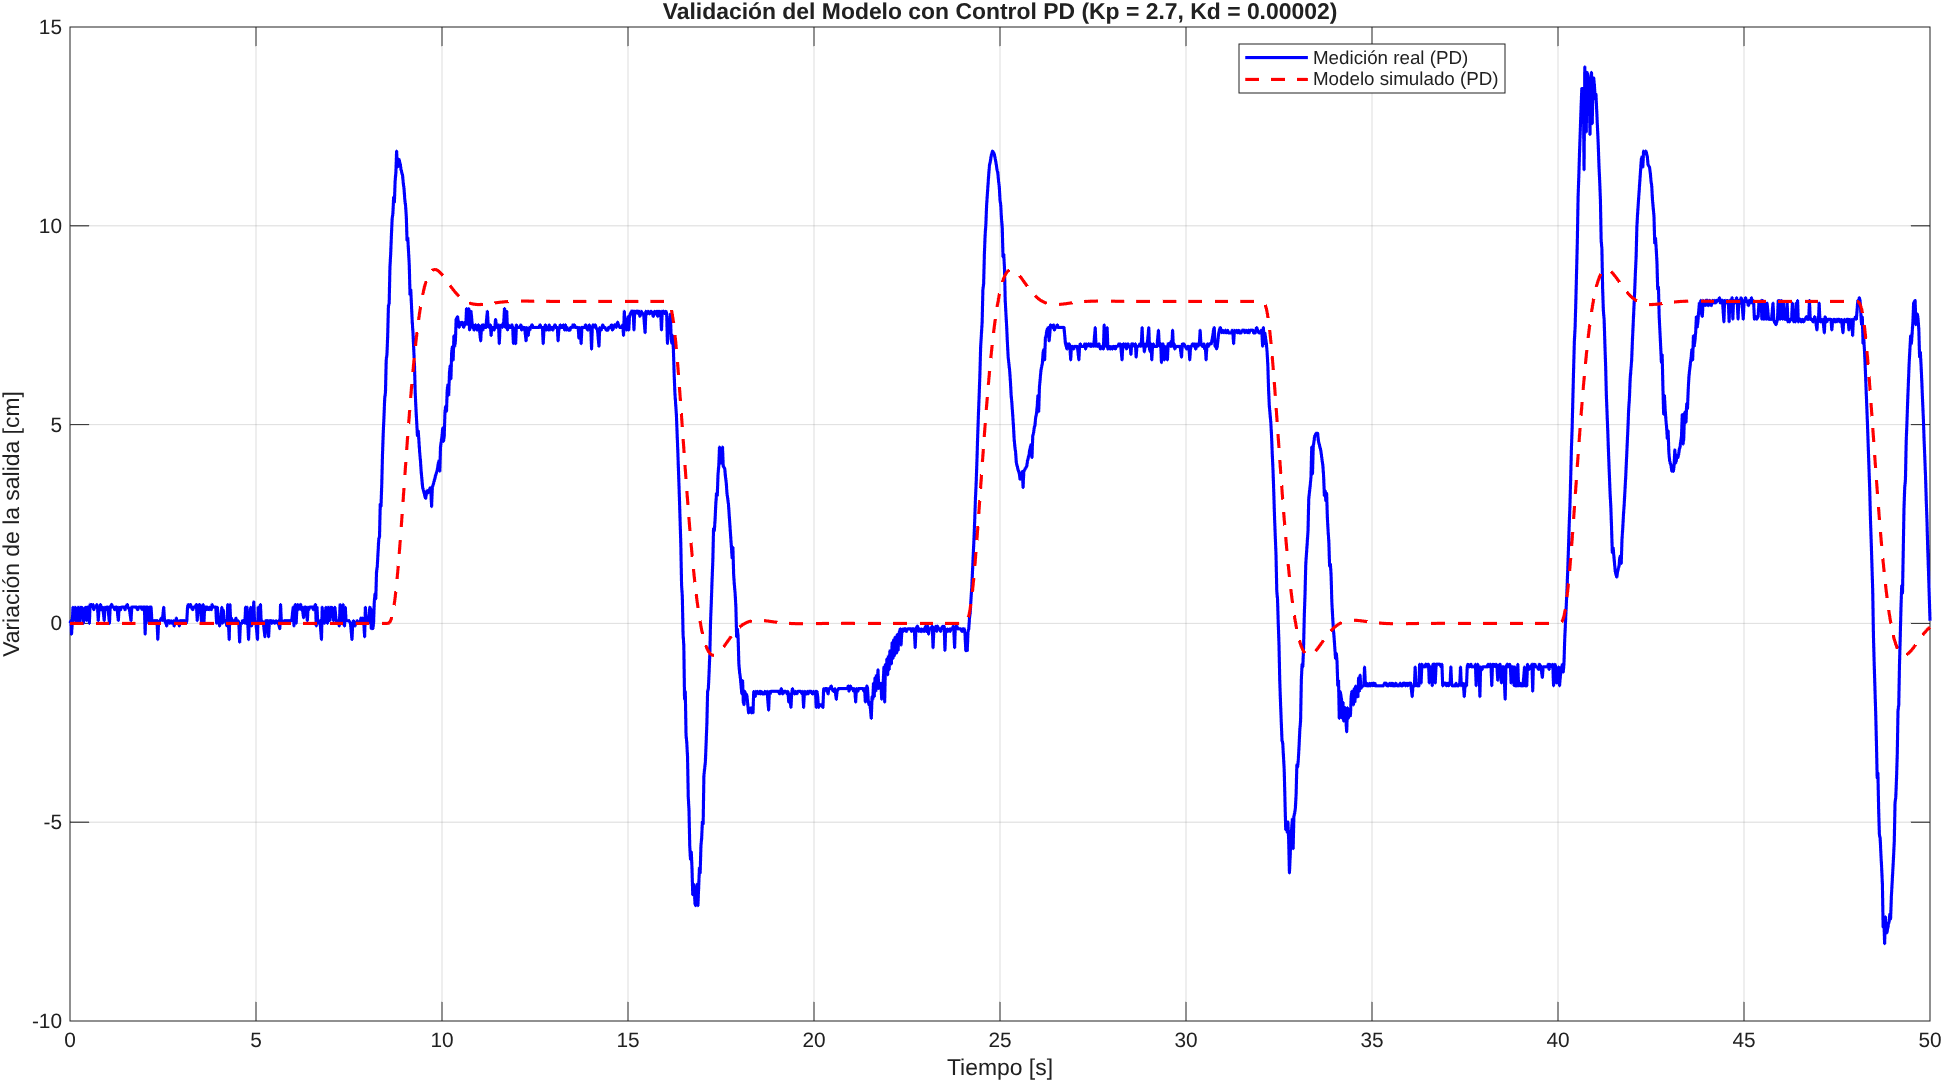
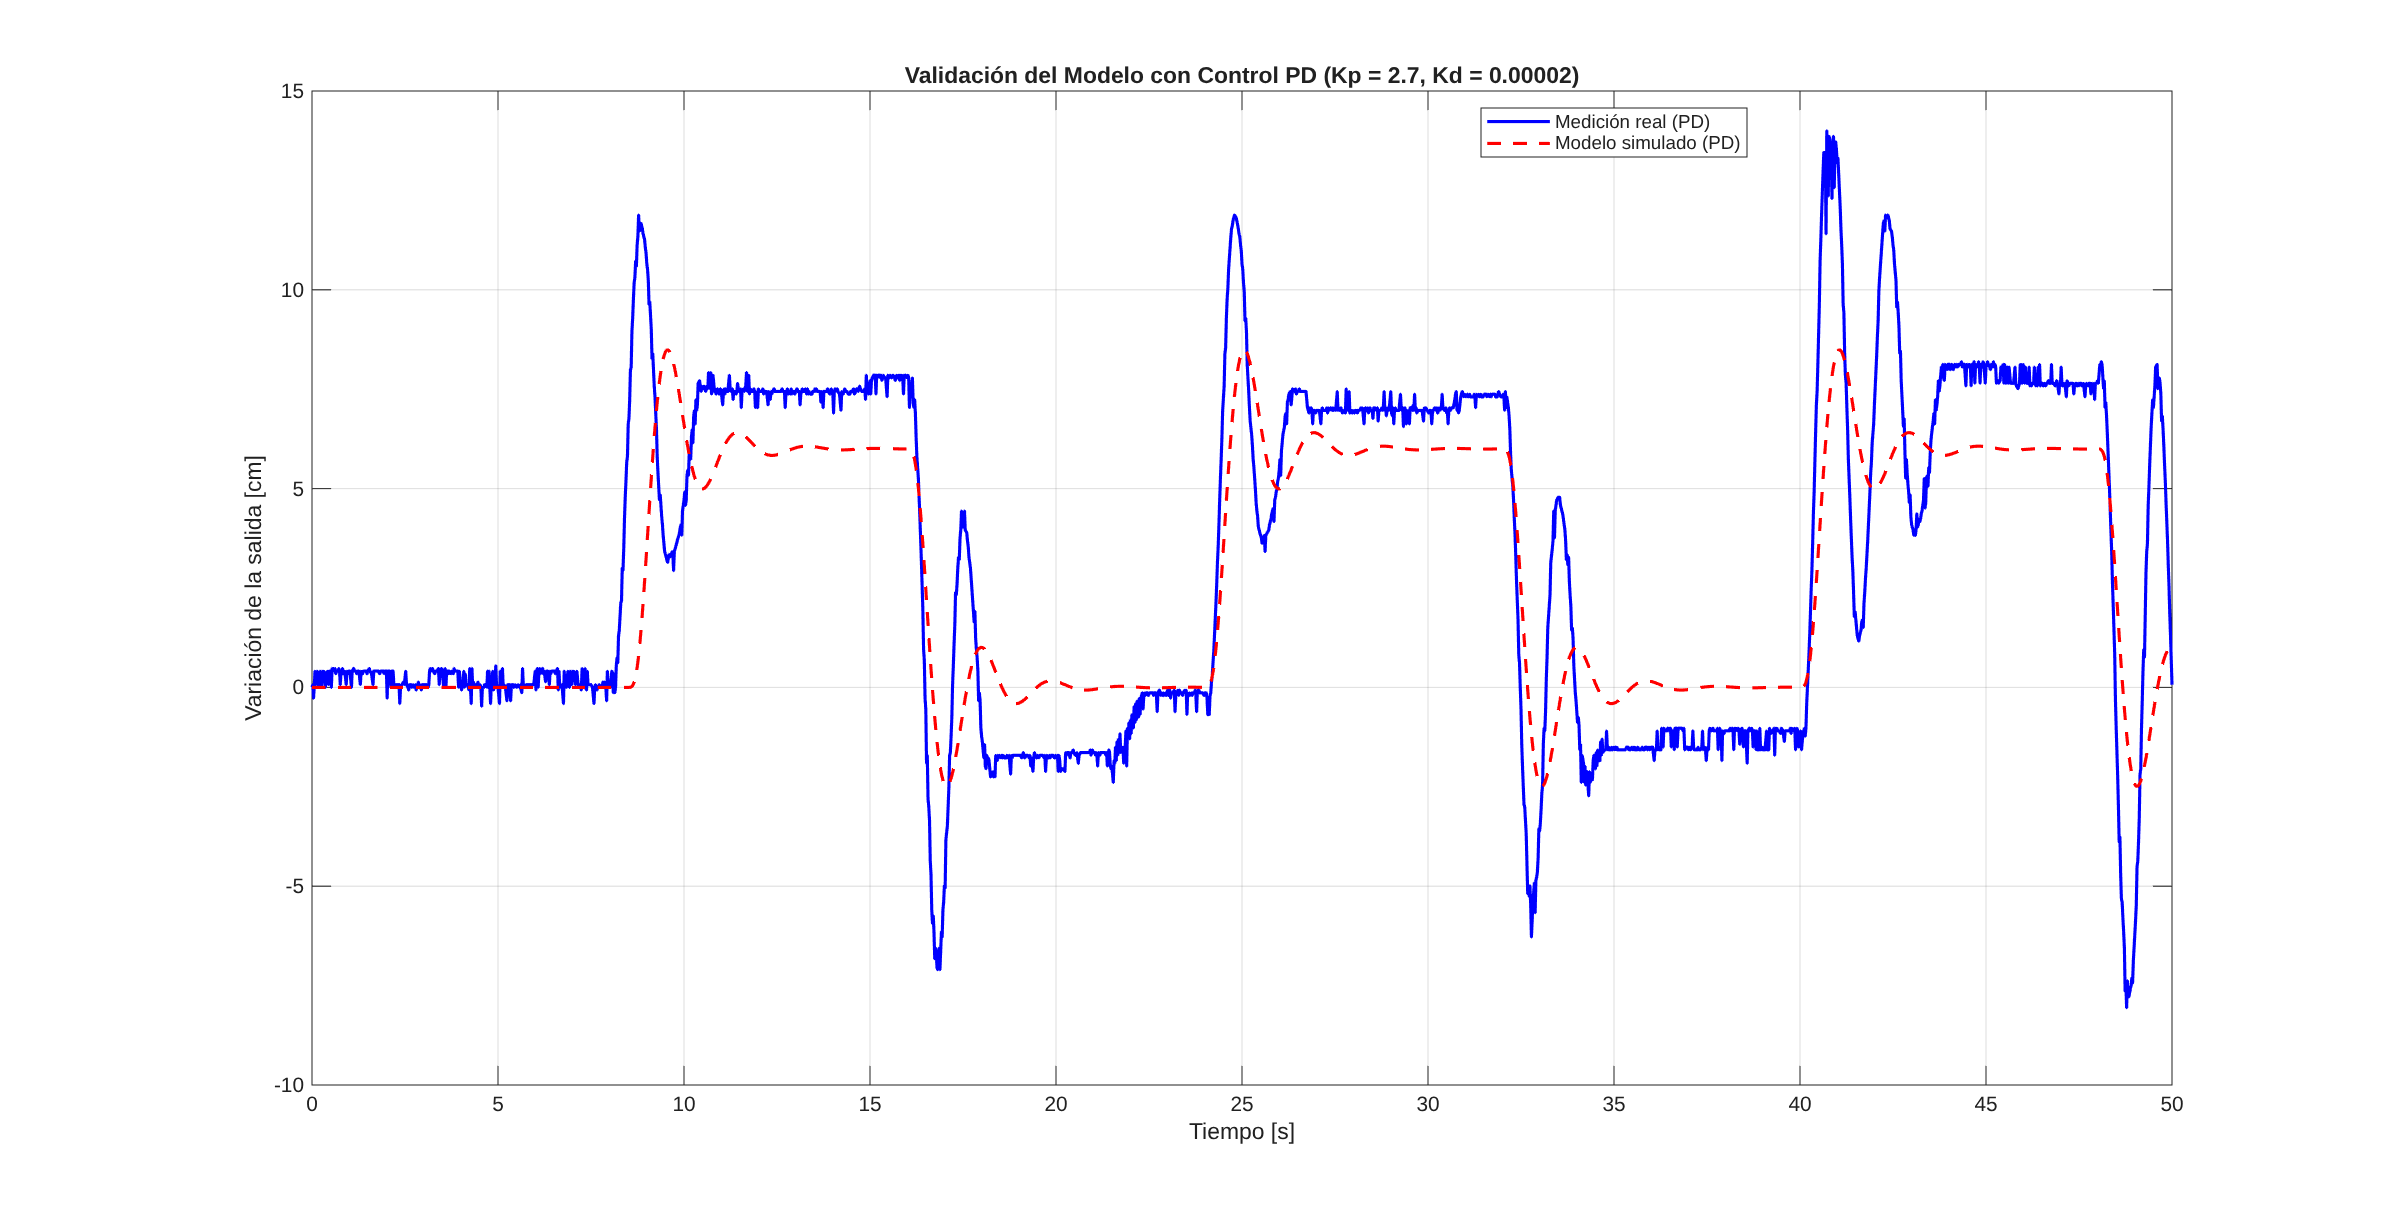
Graficos simulados

diff --git a/TPs/TP2/con_proporcional.m b/TPs/TP2/con_proporcional.m
@@ -1,10 +1,10 @@
 clear; close all; clc
-% out = load("con_proporcional.mat");
-% 
-% distancia = out.out.d1(800:2000);
-% delta_u   = out.out.d2(800:2000);
-% t         = out.out.tout(800:2000);
-% 
+out = load("con_proporcional.mat");
+
+distancia = out.out.d1(800:2000);
+delta_u   = out.out.d2(800:2000);
+t         = out.out.tout(800:2000);
+
 % figure;
 % plot(delta_u);
 % hold on;
@@ -14,12 +14,12 @@ clear; close all; clc
 % xlabel('Muestra');
 % ylabel('Ángulo');
 % title('Ángulo del servo y ángulo de la barra')
-% 
-% Ts = 0.02;
-% 
-% u = delta_u(:);
-% y = distancia(:);
-% t = t(:);
+
+Ts = 0.02;
+
+u = delta_u(:);
+y = distancia(:);
+t = t(:);
 
 % Modelo continuo identificado de la planta de 4 polos
 p1 = 0;
@@ -38,84 +38,59 @@ G = K/((s-p1)*(s-p2)*(s-p3)*(s-p4));
 G
 pole(G)
 
-% Kp = 2.7;
-% 
-% L = feedback(Kp*G,1)
-% 
-% u_sym = zeros(1,1201);
-% u_sym(273) = 150;
-% u_sym(767) = 150;
+Kp = 2.7;
 
-% % Simular el modelo con la entrada REAL medida
-% t_rel = t - t(1);
-% y_sim = real(lsim(L, u_sym, t_rel));
+L = feedback(Kp*G,1)
 
-% % Comparar variaciones respecto al valor inicial
-% y_med = y - y(1);
-% y_sim_var = y_sim - y_sim(1);
+u_sym = zeros(1,1201);
+u_sym(273) = 150;
+u_sym(767) = 150;
 
+% Simular el modelo con la entrada REAL medida
+t_rel = t - t(1);
+y_sim = real(lsim(L, u_sym, t_rel));
 
-%% Respuesta simulada para distintos Kp
+% Comparar variaciones respecto al valor inicial
+y_med = y - y(1);
+y_sim_var = y_sim - y_sim(1);
+
+%%
+
 figure;
-KpValues = [0.5 1 2 3 4 5 6.15];
-t_final = 40; % Ajusta este valor (en segundos) según la lentitud de tu planta G
-Ts = 0.02;    % Paso de tiempo para la simulación
-t = 0:Ts:t_final;
-
-for index = 1:length(KpValues)
-    L = feedback(KpValues(index)*G,1);
-    y_sym= impulse(L, t);
-    plot(t, real(y_sym), 'LineWidth', 2);
-    hold on;
-end
+plot(t_rel, y_med, 'b', 'LineWidth', 1.5);
+hold on;
+plot(t_rel, y_sim_var, 'r--', 'LineWidth', 1.5);
 grid on;
-legend("K_p = " + string(KpValues), 'Location', 'best');
+
 xlabel('Tiempo [s]');
 ylabel('Variación de la salida [cm]');
-title('Modelo con Control Proporcional');
-hold off
+title('Validación experimental del modelo con Control Proporcional');
+% title('Modelo con Control Proporcional');
 
-%% Estabilizar la Planta
-% Por analisis empirico: $K_0$ = 6,15 y $T_0$ = 1,26
+legend('Medición real', 'Modelo simulado', ...
+    'Location', 'best');
 
+%% Graficar las dos respuestas
+figure;
+ plot(t_rel, y_med, 'b', 'LineWidth', 1.5);
+ hold on;
+plot(t_rel, y_sim_var, 'r--', 'LineWidth', 1.5);
+grid on;
 
-% %%
-% 
-% figure;
-% plot(t_rel, y_med, 'b', 'LineWidth', 1.5);
-% hold on;
-% plot(t_rel, y_sim_var, 'r--', 'LineWidth', 1.5);
-% grid on;
-% 
-% xlabel('Tiempo [s]');
-% ylabel('Variación de la salida [cm]');
-% title('Validación experimental del modelo con Control Proporcional');
-% % title('Modelo con Control Proporcional');
-% 
-% legend('Medición real', 'Modelo simulado', ...
-%     'Location', 'best');
-% 
-% %% Graficar las dos respuestas
-% figure;
-%  plot(t_rel, y_med, 'b', 'LineWidth', 1.5);
-%  hold on;
-% plot(t_rel, y_sim_var, 'r--', 'LineWidth', 1.5);
-% grid on;
-% 
-% xlabel('Tiempo [s]');
-% ylabel('Variación de la salida [cm]');
-% title('Validación experimental del modelo con Control Proporcional');
-% % title('Modelo con Control Proporcional');
-% 
-% legend('Medición real', 'Modelo simulado', ...
-%        'Location', 'best');
-% 
-% %% Error de predicción
-% error = y_med - y_sim_var;
-% 
-% figure;
-% plot(t_rel, error, 'k', 'LineWidth', 1.2);
-% grid on;
-% xlabel('Tiempo [s]');
-% ylabel('Error');
-% title('Error entre la medición y el modelo');
+xlabel('Tiempo [s]');
+ylabel('Variación de la salida [cm]');
+title('Validación experimental del modelo con Control Proporcional');
+% title('Modelo con Control Proporcional');
+
+legend('Medición real', 'Modelo simulado', ...
+       'Location', 'best');
+
+%% Error de predicción
+error = y_med - y_sim_var;
+
+figure;
+plot(t_rel, error, 'k', 'LineWidth', 1.2);
+grid on;
+xlabel('Tiempo [s]');
+ylabel('Error');
+title('Error entre la medición y el modelo');

diff --git a/TPs/TP2/impulso_PD_2.m b/TPs/TP2/impulso_PD_2.m
@@ -1,0 +1,68 @@
+clear; close all; clc
+
+%% 1. Cargar datos experimentales del ensayo de impulso (PD)
+out_imp = load("PD_1.mat");
+
+% Ajusta según el nombre de las variables dentro del archivo .mat (ej: tout y d1)
+t         = out_imp.out.tout(:);
+distancia = out_imp.out.d1(:); % Salida real medida
+
+%% 2. Definición del Modelo y Controlador PD
+p1 = 0;
+p2 = -3.5450;
+p3 = -6.1249 + 8.5238i;
+p4 = -6.1249 - 8.5238i;
+
+% Ganancia de la planta
+K = 13.3*38.95;
+
+% Construir la función de transferencia de la planta
+s = tf('s');
+G = K/((s-p1)*(s-p2)*(s-p3)*(s-p4));
+
+% Parámetros del controlador PD
+Kp = 2.7;
+Kd = 0.00002;
+
+% Controlador PD y lazo cerrado
+C = Kp + Kd*s;
+L = feedback(C * G, 1);
+
+%% 3. Simulación analítica de la respuesta al impulso
+t_rel = t - t(1);
+
+% Factor de escala para alinear la altura del pico con la medición real
+factor_escala = 1.5; 
+
+% Simular la respuesta al impulso del sistema
+[y_sim, t_sim] = impulse(L * factor_escala, t_rel(end));
+
+% Desplazar el vector de tiempo del modelo al instante en que ocurre el impulso en el ensayo real (ej: ~6 segundos)
+t_impulso_real = 6.9; 
+t_sim_desplazado = t_sim + t_impulso_real;
+
+%% 4. Gráfica comparativa: Impulso Real vs Impulso Simulado (PD)
+y_med = distancia - distancia(1);
+
+figure;
+plot(t_rel, y_med, 'b', 'LineWidth', 1.5);
+hold on;
+plot(t_sim_desplazado, y_sim, 'r--', 'LineWidth', 1.5);
+grid on;
+xlabel('Tiempo [s]');
+ylabel('Respuesta al impulso [cm]');
+title('Validación de la Respuesta al Impulso (Control PD: Kp = 2.7, Kd = 0.00002)');
+legend('Medición real (Impulso)', 'Modelo simulado (Impulso)', ...
+    'Location', 'best');
+
+%% 5. Cálculo y gráfica del error
+% Interpolar la simulación al vector de tiempo experimental para restar punto a punto
+y_sim_interp = interp1(t_sim_desplazado, y_sim, t_rel, 'linear', 'extrap');
+error_imp = y_med - y_sim_interp;
+
+figure;
+plot(t_rel, error_imp, 'k', 'LineWidth', 1.2);
+grid on;
+xlabel('Tiempo [s]');
+ylabel('Error');
+title('Error entre la medición del impulso y el modelo PD');

diff --git a/TPs/TP2/impulso_PI_2.m b/TPs/TP2/impulso_PI_2.m
@@ -1,0 +1,49 @@
+clear; close all; clc
+
+%% 1. Cargar datos experimentales del impulso
+out_imp = load("PI_2.mat");
+t         = out_imp.out.tout(:);
+distancia = out_imp.out.d1(:); % Salida real
+
+%% 2. Definición del Modelo y Controlador PI
+p1 = 0;
+p2 = -3.5450;
+p3 = -6.1249 + 8.5238i;
+p4 = -6.1249 - 8.5238i;
+
+% Ganancia de la planta
+K = 13.3*38.95;
+
+s = tf('s');
+G = K/((s-p1)*(s-p2)*(s-p3)*(s-p4));
+
+Kp = 2.7;
+Ki = 0.22;
+C = Kp + Ki/s;
+L = feedback(C * G, 1);
+
+%% 3. Simulación analítica de la respuesta al impulso
+t_rel = t - t(1);
+
+% Magnitud del impulso teórico (ajusta este factor para escalar la altura del pico a tu gusto)
+factor_escala = 1.5; 
+
+% Simulamos la respuesta al impulso del sistema
+[y_sim, t_sim] = impulse(L * factor_escala, t_rel(end));
+
+% Desplazamos el vector de tiempo del modelo para que empiece exactamente a los 6 segundos (donde ocurre el ensayo real)
+t_impulso_real = 5.2; 
+t_sim_desplazado = t_sim + t_impulso_real;
+
+%% 4. Gráfica comparativa alineada
+y_med = distancia - distancia(1);
+
+figure;
+plot(t_rel, y_med, 'b', 'LineWidth', 1.5);
+hold on;
+plot(t_sim_desplazado, y_sim, 'r--', 'LineWidth', 1.5);
+grid on;
+xlabel('Tiempo [s]');
+ylabel('Respuesta al impulso [cm]');
+title('Validación de la Respuesta al Impulso (Control PI)');
+legend('Medición real (Impulso)', 'Modelo simulado (Impulso)', 'Location', 'best');

diff --git a/TPs/TP2/con_PD.m b/TPs/TP2/con_PD.m
@@ -4,13 +4,13 @@ out = load("con_proporcional.mat");
 t = out.out.tout(800:2000);
 
 % Modelo continuo identificado de la planta de 4 polos
-p1 = 0.6202;
-p2 = -6.4049;
-p3 = -8.3056 + 9.4818i;
-p4 = -8.3056 - 9.4818i;
+p1 = 0;
+p2 = -3.5450;
+p3 = -6.1249 + 8.5238i;
+p4 = -6.1249 - 8.5238i;
 
 % Ganancia de la planta
-K = 16.03*56.28;
+K = 13.3*38.95;
 
 % Construir la función de transferencia
 s = tf('s');

diff --git a/TPs/TP2/escalon_PD_2.m b/TPs/TP2/escalon_PD_2.m
@@ -9,12 +9,12 @@ distancia = out_imp.out.d1(:); % Salida real medida
 
 %% 2. Definición del Modelo y Controlador PD
 p1 = 0;
-p2 = -.8468;
-p3 = -8.3056 + 9.4818i;
-p4 = -8.3056 - 9.4818i;
+p2 = -3.5450;
+p3 = -6.1249 + 8.5238i;
+p4 = -6.1249 - 8.5238i;
 
 % Ganancia de la planta
-K = 4.446*56.28;
+K = 13.3*38.95;
 
 % Construir la función de transferencia de la planta
 s = tf('s');

diff --git a/TPs/TP2/KP_KD_ESCALON.m b/TPs/TP2/KP_KD_ESCALON.m
@@ -7,12 +7,12 @@ distancia = out_pd.out.d1(:); % Salida real
 
 %% 2. Definición del Modelo y Controlador PD
 p1 = 0;
-p2 = -.8468;
-p3 = -8.3056 + 9.4818i;
-p4 = -8.3056 - 9.4818i;
+p2 = -3.5450;
+p3 = -6.1249 + 8.5238i;
+p4 = -6.1249 - 8.5238i;
 
 % Ganancia de la planta
-K = 4.446*56.28;
+K = 13.3*38.95;
 
 % Construir la función de transferencia de la planta
 s = tf('s');

diff --git a/TPs/TP2/KP_KI_ESCALON.m b/TPs/TP2/KP_KI_ESCALON.m
@@ -7,12 +7,12 @@ distancia = out_pi.out.d1(:); % Salida real
 
 %% 2. Definición del Modelo y Controlador PI
 p1 = 0;
-p2 = -.8468;
-p3 = -8.3056 + 9.4818i;
-p4 = -8.3056 - 9.4818i;
+p2 = -3.5450;
+p3 = -6.1249 + 8.5238i;
+p4 = -6.1249 - 8.5238i;
 
 % Ganancia de la planta
-K = 4.446*56.28;
+K = 13.3*38.95;
 
 % Construir la función de transferencia de la planta
 s = tf('s');

diff --git a/TPs/TP2/escalon_PI_2.m b/TPs/TP2/escalon_PI_2.m
@@ -7,11 +7,13 @@ distancia = out_imp.out.d1(:); % Salida real
 
 %% 2. Definición del Modelo y Controlador PI
 p1 = 0;
-p2 = -.8468;
-p3 = -8.3056 + 9.4818i;
-p4 = -8.3056 - 9.4818i;
+p2 = -3.5450;
+p3 = -6.1249 + 8.5238i;
+p4 = -6.1249 - 8.5238i;
 
-K = 4.446*56.28;
+% Ganancia de la planta
+K = 13.3*38.95;
+
 s = tf('s');
 G = K/((s-p1)*(s-p2)*(s-p3)*(s-p4));
 

diff --git a/TPs/TP2/KP_ESCALON.m b/TPs/TP2/KP_ESCALON.m
@@ -7,12 +7,12 @@ distancia = out_esc.out.d1(:);
 
 %% 2. Definición del Modelo y Controlador
 p1 = 0;
-p2 = -.8468;
-p3 = -8.3056 + 9.4818i;
-p4 = -8.3056 - 9.4818i;
+p2 = -3.5450;
+p3 = -6.1249 + 8.5238i;
+p4 = -6.1249 - 8.5238i;
 
 % Ganancia de la planta
-K = 4.446*56.28;
+K = 13.3*38.95;
 
 % Construir la función de transferencia
 s = tf('s');
